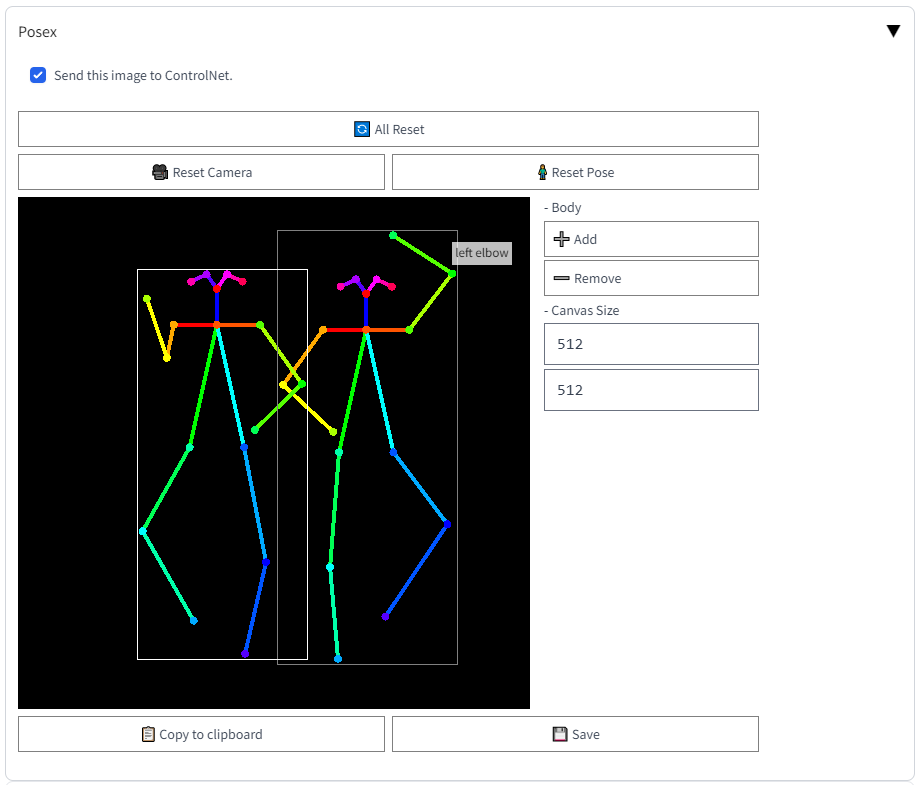
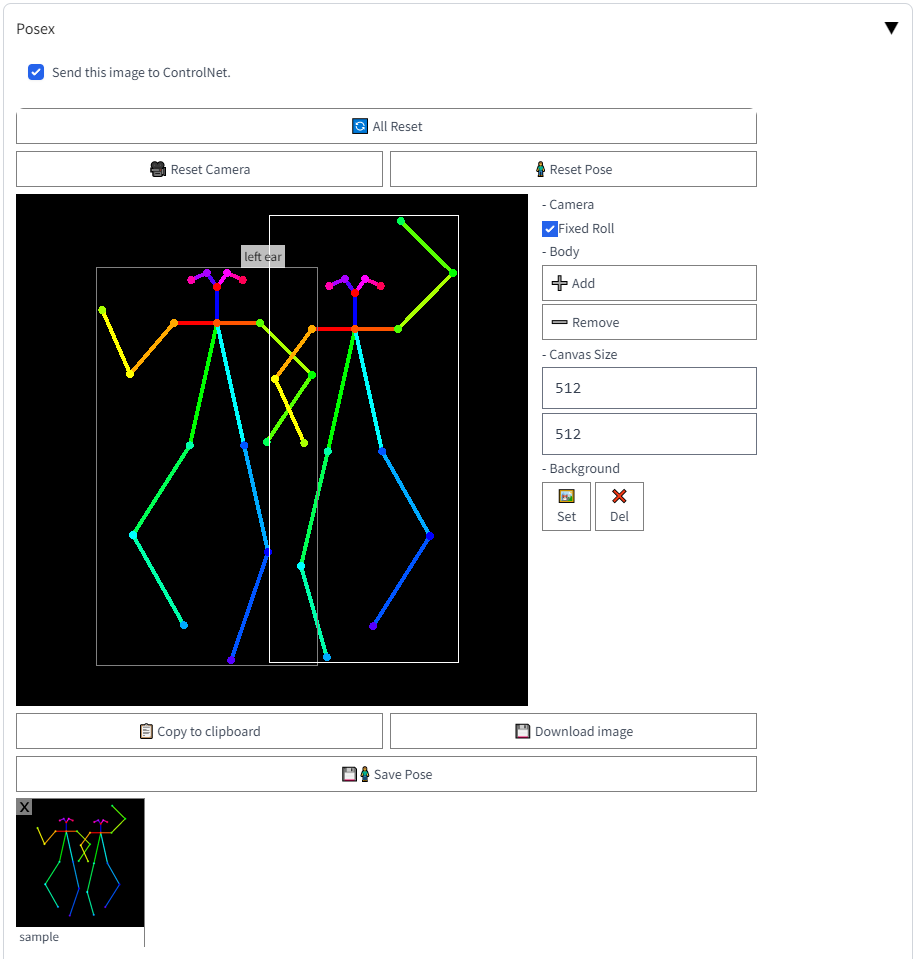
README.md for v0.4

diff --git a/README.md b/README.md
@@ -73,6 +73,11 @@ result:
 
 ## History
 
+### v0.3 -> v0.4 features
+- background setting
+- save/load pose
+- fixed camera roll
+
 ### v0.2 -> v0.3 features
 - Web UI extension
 
